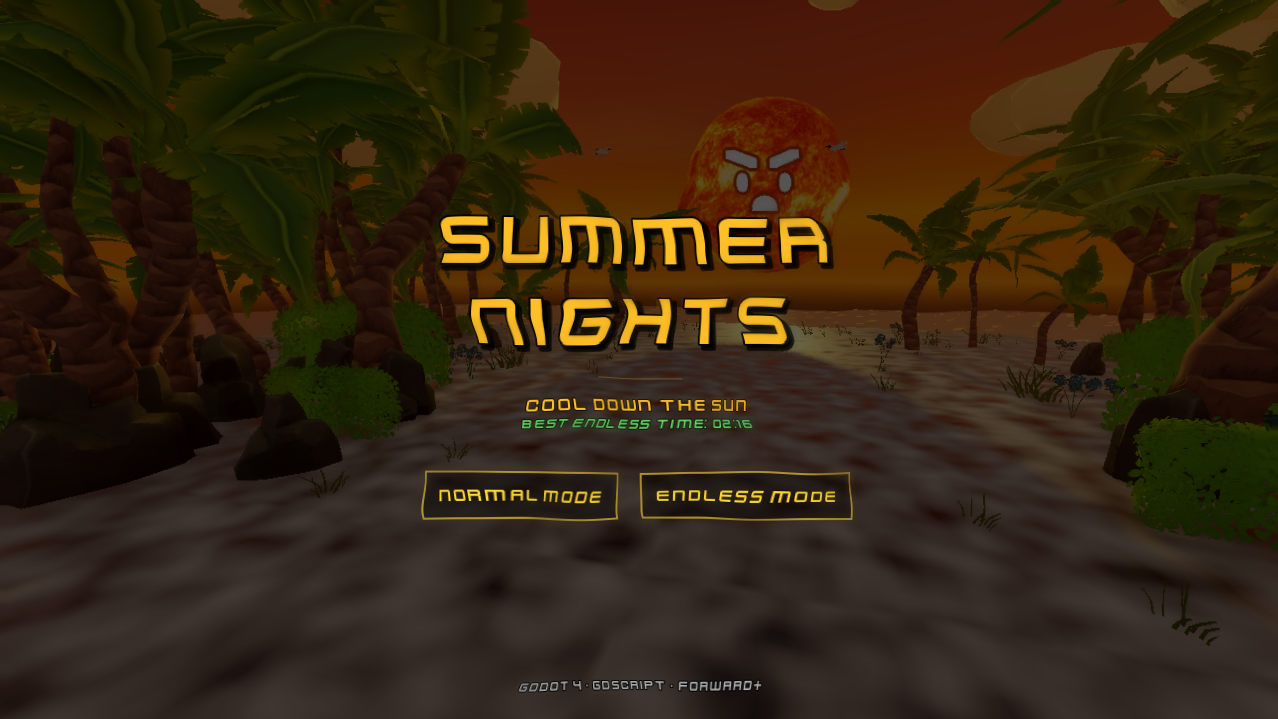
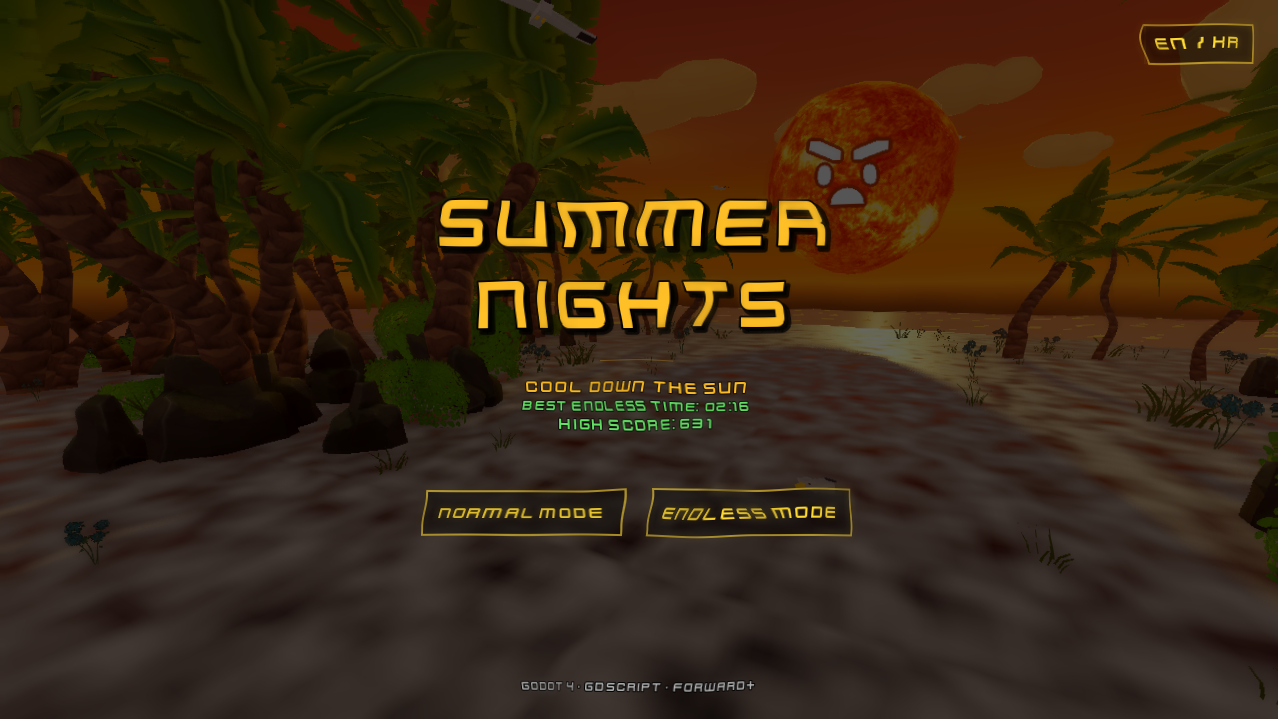
Update README screenshots with v1.1.0 visual assets

diff --git a/README.md b/README.md
@@ -8,7 +8,6 @@ A 3D arcade shooter built in Godot 4. Cool down the Sun before the heat overwhel
 
 ## Screenshots
 
-<p align="center">
   <img src="screenshots/01_Title_Screen.png" width="48%">
   <img src="screenshots/02_Core_Gameplay.png" width="48%">
   <img src="screenshots/03_Weapon_Wheel.png" width="48%">
@@ -16,6 +15,9 @@ A 3D arcade shooter built in Godot 4. Cool down the Sun before the heat overwhel
   <img src="screenshots/05_Weather_Solar_Wind.png" width="48%">
   <img src="screenshots/06_Upgrades_Ice_Burst.png" width="48%">
   <img src="screenshots/07_Settings_Menu.png" width="48%">
+  <img src="screenshots/08_Catastrom.png" width="48%">
+  <img src="screenshots/09_Mirage.png" width="48%">
+  <img src="screenshots/10_Weather.png" width="48%">
 </p>
 
 ---
